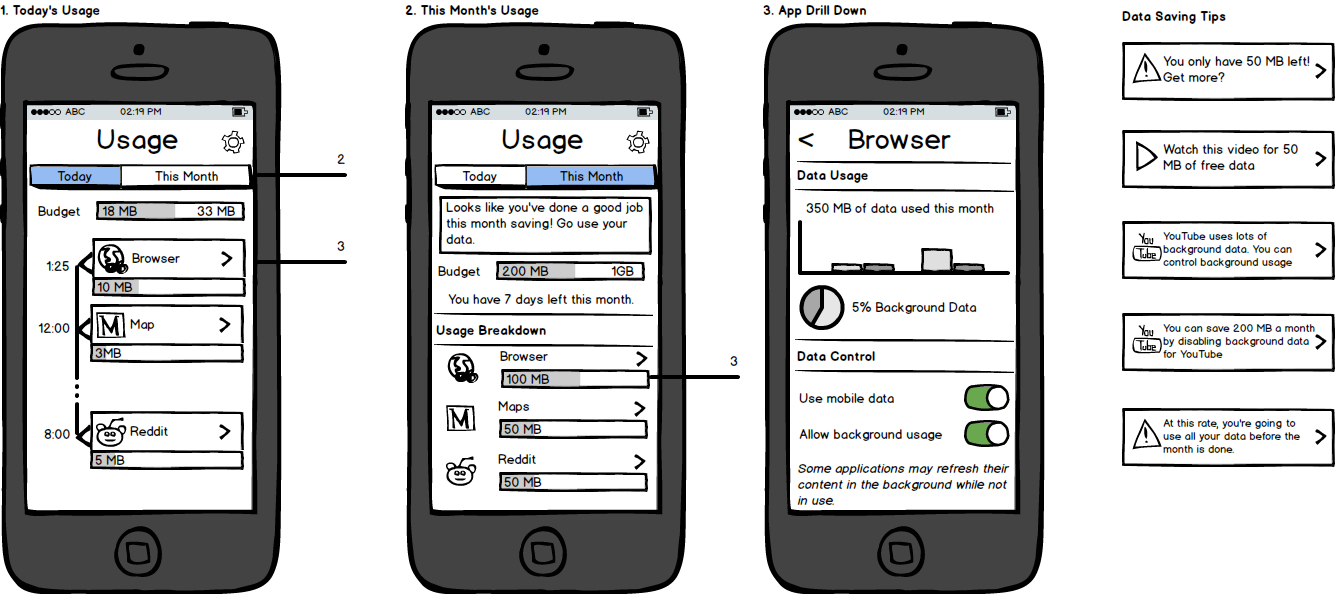
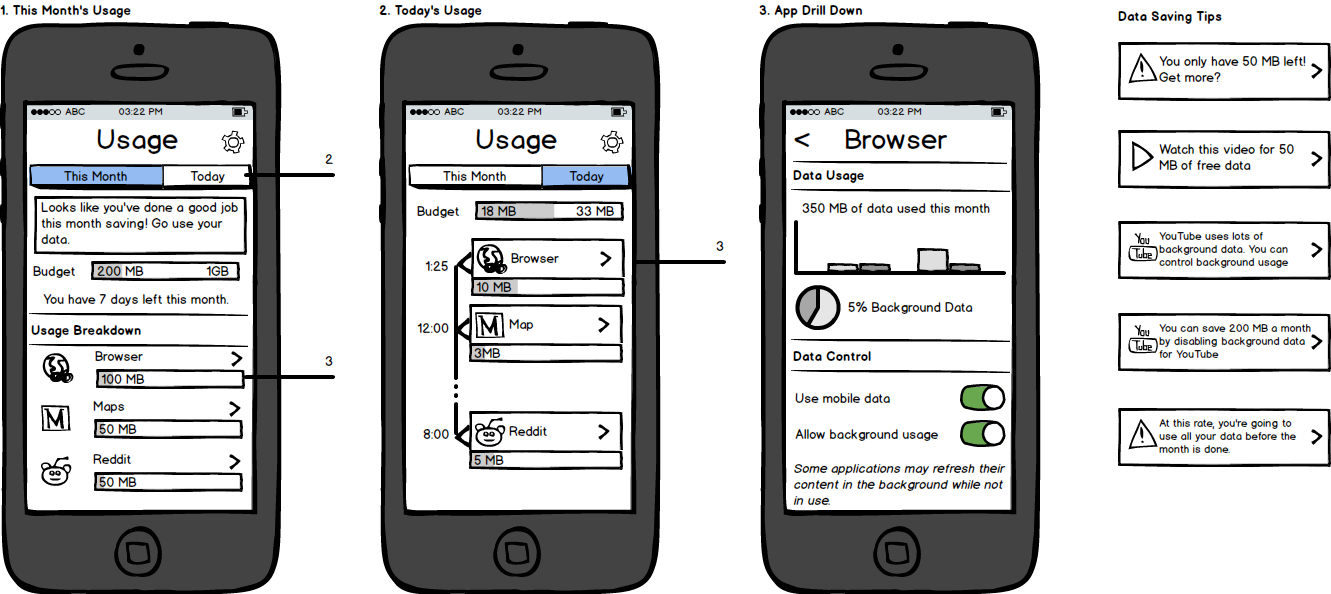
swap "this month" and "today" in timeline mockup
From feedback from design team. The rationale here is that people may
not find “today” as immediately useful as “this month”.

Made “this month” have a usage breakdown that graphically makes sense.

diff --git a/contents/index.md b/contents/index.md
@@ -614,7 +614,7 @@ informed decision of how to control the application's data usage.
 
 The concept of a daily budget is introduced to help users manage their daily
 consumption. Think weight watchers for your data. The month's data cap is split
-between 30 days and shown in *1. Today's Usage*. This might confuse users
+between 30 days and shown in *2. Today's Usage*. This might confuse users
 into thinking their operator imposes daily data caps.
 
 Data saving tips are introduced to help users manage their data. See *Data
